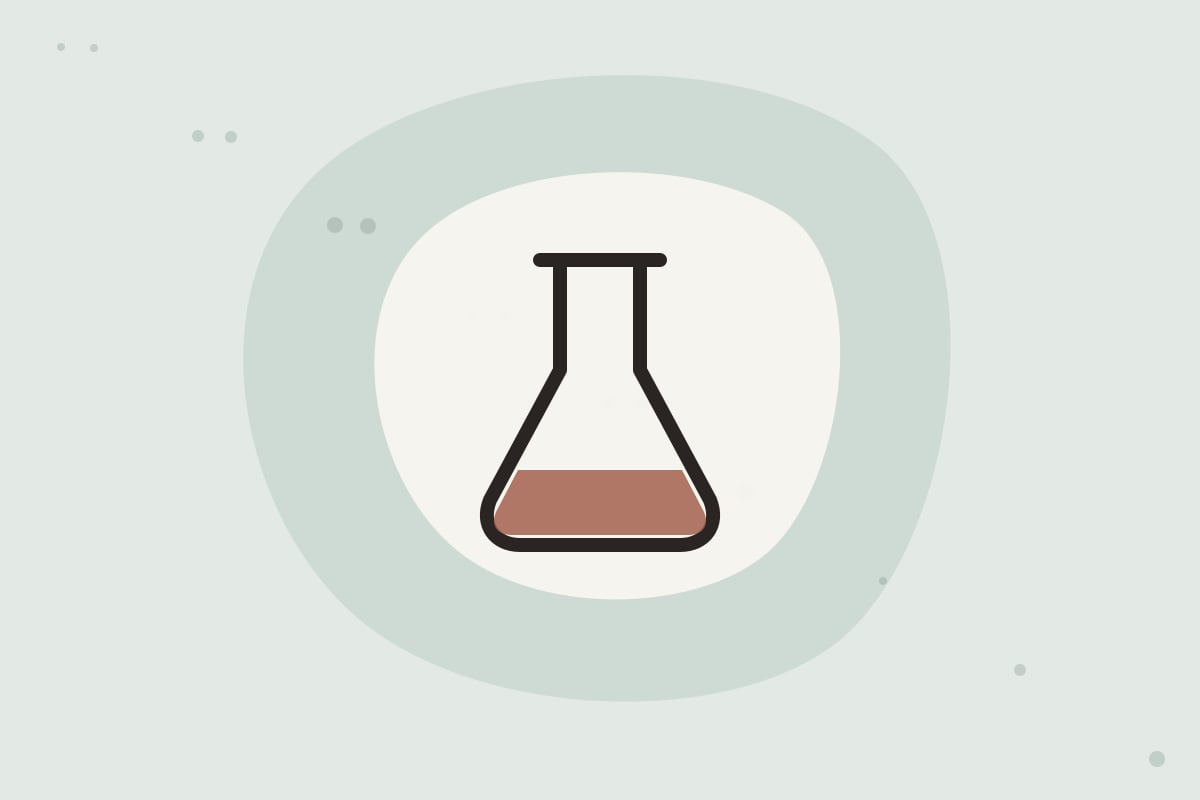
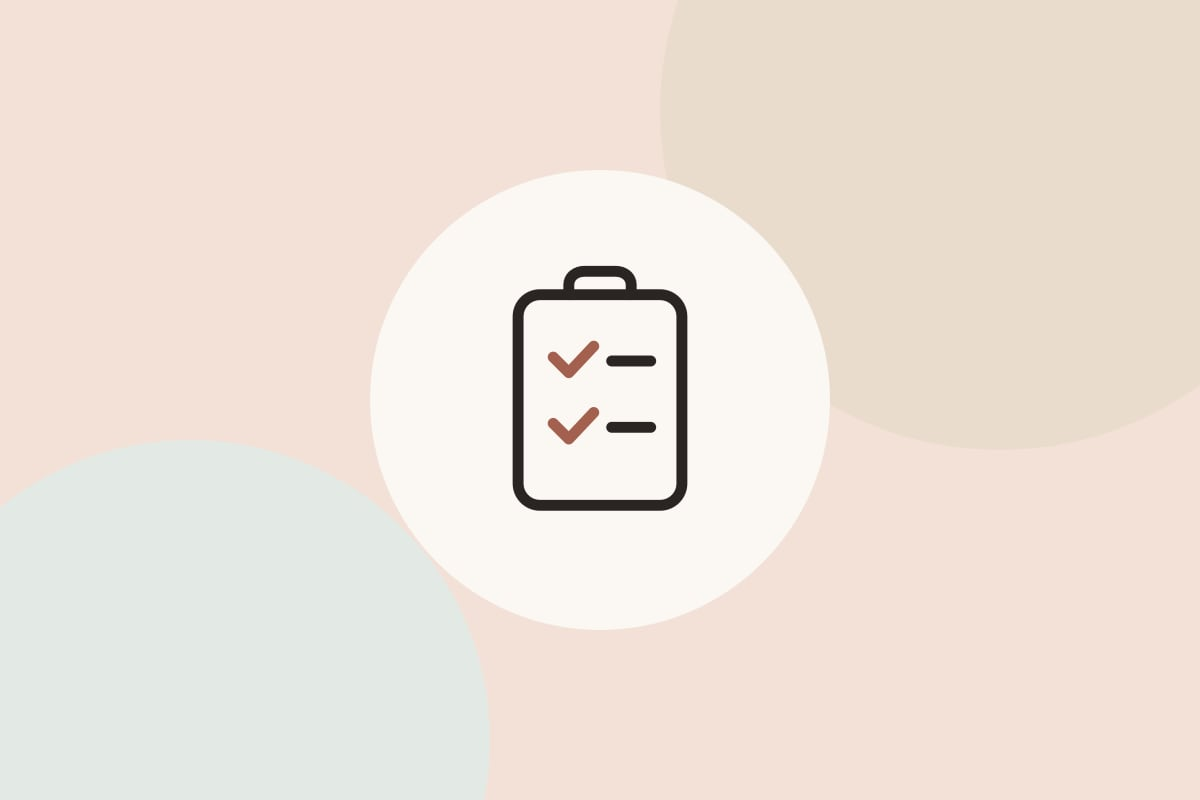
Ajustes de layout, conteúdo e nova consulta
- Título das telas internas de volta ao lado do botão de voltar (28 pt, reduz se não couber)
- Conteúdo: remove o artigo da parceria e ajusta Parceiro no plano de parto e nos testes rápidos
- Capas dos artigos com a mistura de cores da Orientação desta semana e margem em volta do ícone
- Ícone de exames: prancheta no lugar do frasco
- Hoje: saudação em 27 pt e faixa de semanas rolável que mostra o bebê da semana escolhida
- Nova consulta refeita: tipo em cartões, faixa de dias, horários em botões e resumo

diff --git a/app/(app)/nova-consulta.tsx b/app/(app)/nova-consulta.tsx
@@ -1,30 +1,53 @@
 import { useRouter } from 'expo-router';
-import { useState } from 'react';
-import { View } from 'react-native';
+import { useMemo, useState } from 'react';
+import { ScrollView, View } from 'react-native';
+import Svg, { Circle, Path, Rect } from 'react-native-svg';
 
 import { DateField } from '@/components/date-field';
-import { fromIso, todayIso, useStore } from '@/store';
-import { Chip, Field, Overline, PageHeader, PrimaryButton, Screen, Wrap } from '@/ui';
+import { capitalize, DAY, fmt, fromIso, iso, startOfToday, todayIso, useStore } from '@/store';
+import { colors } from '@/theme';
+import { Card, Field, Overline, PageHeader, Press, PrimaryButton, Sans, Screen, TextButton, Title } from '@/ui';
 
-const KINDS = ['Consulta pré-natal', 'Exame', 'Ultrassom', 'Vacina'];
+const stroke = (c: string) => ({ stroke: c, strokeWidth: 1.8, fill: 'none', strokeLinecap: 'round' as const, strokeLinejoin: 'round' as const });
+const KINDS: { id: string; label?: string; icon: (c: string) => React.ReactNode }[] = [
+  { id: 'Consulta pré-natal', label: 'Pré-natal', icon: (c) => <Svg width={22} height={22} viewBox="0 0 24 24"><Path d="M12 20s-7-4.4-7-10a4 4 0 0 1 7-2.6A4 4 0 0 1 19 10c0 5.6-7 10-7 10z" {...stroke(c)} /></Svg> },
+  { id: 'Exame', icon: (c) => <Svg width={22} height={22} viewBox="0 0 24 24"><Rect x="5" y="4" width="14" height="17" rx="3" {...stroke(c)} /><Path d="M9 4.5V3.5h6v1M8.5 11l1.5 1.5 3-3M8.5 16.5h7" {...stroke(c)} /></Svg> },
+  { id: 'Ultrassom', icon: (c) => <Svg width={22} height={22} viewBox="0 0 24 24"><Path d="M4 13c2-6 6-6 8 0s6 6 8 0" {...stroke(c)} /><Circle cx="12" cy="13" r="1.4" fill={c} /></Svg> },
+  { id: 'Vacina', icon: (c) => <Svg width={22} height={22} viewBox="0 0 24 24"><Path d="M12 3c2.6 1.6 4.7 2 6.5 2v6c0 4.4-3 7.4-6.5 9-3.5-1.6-6.5-4.6-6.5-9V5C7.3 5 9.4 4.6 12 3z" {...stroke(c)} /><Path d="M9.2 12l2 2 3.6-3.6" {...stroke(c)} /></Svg> },
+];
+const TIMES = Array.from({ length: 25 }, (_, i) => `${String(7 + Math.floor(i / 2)).padStart(2, '0')}:${i % 2 ? '30' : '00'}`);
 
 export default function NovaConsulta() {
-  const { save, load, flash } = useStore();
+  const { s, save, load, flash } = useStore();
   const router = useRouter();
-  const [title, setTitle] = useState(KINDS[0]);
+  const [title, setTitle] = useState(KINDS[0].id);
   const [day, setDay] = useState(todayIso());
+  const [otherDate, setOtherDate] = useState(false);
   const [time, setTime] = useState('');
+  const [otherTime, setOtherTime] = useState(false);
   const [who, setWho] = useState('');
   const [place, setPlace] = useState('');
+  const [busy, setBusy] = useState(false);
 
-  const submit = async () => {
+  // próximos 60 dias para a faixa de datas
+  const days = useMemo(() => Array.from({ length: 60 }, (_, i) => new Date(startOfToday().getTime() + i * DAY)), []);
+
+  const parsed = (() => {
     const match = time.trim().match(/^(\d{1,2})[:hH]?(\d{2})?$/);
     const h = match ? Number(match[1]) : NaN;
     const m = match?.[2] ? Number(match[2]) : 0;
-    if (!(h >= 0 && h < 24 && m < 60)) return flash('Informe o horário, por exemplo 14:30.');
+    return h >= 0 && h < 24 && m < 60 ? { h, m } : null;
+  })();
+  const when = parsed ? `${capitalize(fmt(fromIso(day), { weekday: 'long', day: 'numeric', month: 'long' }))}, às ${parsed.h}h${parsed.m ? String(parsed.m).padStart(2, '0') : ''}` : null;
+
+  const submit = async () => {
+    if (busy) return;
+    if (!parsed) return flash('Escolha o horário.');
     const start = fromIso(day);
-    start.setHours(h, m, 0, 0);
-    const created = await save('/appointments', 'POST', { startsAt: start.toISOString(), title, who, place });
+    start.setHours(parsed.h, parsed.m, 0, 0);
+    setBusy(true);
+    const created = await save('/appointments', 'POST', { startsAt: start.toISOString(), title, who: who.trim(), place: place.trim() });
+    setBusy(false);
     if (created) {
       await load();
       flash('Consulta salva');
@@ -34,20 +57,81 @@ export default function NovaConsulta() {
   };
 
   return (
-    <Screen gap={20}>
-      <PageHeader title="Nova consulta" fallback="/saude" />
+    <Screen gap={22}>
+      <PageHeader title="Nova consulta" sub="Fica no seu calendário de consultas" fallback="/saude" />
+
       <View style={{ gap: 10 }}>
         <Overline>O que é</Overline>
-        <Wrap>{KINDS.map((k) => <Chip key={k} label={k} on={title === k} onPress={() => setTitle(k)} />)}</Wrap>
+        <View style={{ flexDirection: 'row', flexWrap: 'wrap', gap: 8 }}>
+          {KINDS.map((k) => {
+            const on = title === k.id;
+            return (
+              <Press key={k.id} accessibilityLabel={k.id} accessibilityState={{ selected: on }} onPress={() => setTitle(k.id)} style={{ flexBasis: '48%', flexGrow: 1, flexDirection: 'row', alignItems: 'center', gap: 10, minHeight: 56, paddingHorizontal: 14, borderRadius: 18, backgroundColor: on ? colors.ink : colors.card, borderWidth: 1.5, borderColor: on ? colors.ink : colors.line }}>
+                {k.icon(on ? colors.bg : colors.terra)}
+                <Sans s={13} w={600} c={on ? colors.bg : colors.ink} style={{ flex: 1 }} numberOfLines={1}>{k.label ?? k.id}</Sans>
+              </Press>
+            );
+          })}
+        </View>
       </View>
-      <View style={{ gap: 8 }}>
-        <Overline>Dia</Overline>
-        <DateField value={day} onChange={setDay} />
+
+      <View style={{ gap: 10 }}>
+        <View style={{ flexDirection: 'row', justifyContent: 'space-between', alignItems: 'center' }}>
+          <Overline>Dia</Overline>
+          <TextButton label={otherDate ? 'Ver próximos dias' : 'Outra data'} s={12} w={600} c={colors.terra} onPress={() => setOtherDate(!otherDate)} />
+        </View>
+        {otherDate ? (
+          <DateField value={day} onChange={setDay} />
+        ) : (
+          <ScrollView horizontal showsHorizontalScrollIndicator={false} style={{ marginHorizontal: -20 }} contentContainerStyle={{ gap: 8, paddingHorizontal: 20 }}>
+            {days.map((d) => {
+              const id = iso(d);
+              const on = id === day;
+              return (
+                <Press key={id} accessibilityLabel={fmt(d, { weekday: 'long', day: 'numeric', month: 'long' })} accessibilityState={{ selected: on }} onPress={() => setDay(id)} style={{ width: 58, paddingVertical: 10, borderRadius: 18, alignItems: 'center', gap: 2, backgroundColor: on ? colors.ink : colors.card }}>
+                  <Sans s={11} w={600} c={on ? colors.onInkMid : colors.muted}>{fmt(d, { weekday: 'short' }).replace(/\./g, '').toUpperCase()}</Sans>
+                  <Title s={20} lh={1.15} c={on ? colors.bg : colors.ink}>{d.getDate()}</Title>
+                  <Sans s={11} c={on ? colors.onInkMid : colors.muted}>{fmt(d, { month: 'short' }).replace(/\./g, '')}</Sans>
+                </Press>
+              );
+            })}
+          </ScrollView>
+        )}
       </View>
-      <Field label="Horário" value={time} onChangeText={setTime} placeholder="14:30" keyboardType="numbers-and-punctuation" />
-      <Field label="Com quem" value={who} onChangeText={setWho} placeholder="Nome do profissional ou laboratório" />
-      <Field label="Onde" value={place} onChangeText={setPlace} placeholder="Clínica ou endereço" />
-      <PrimaryButton label="Salvar" onPress={submit} />
+
+      <View style={{ gap: 10 }}>
+        <View style={{ flexDirection: 'row', justifyContent: 'space-between', alignItems: 'center' }}>
+          <Overline>Horário</Overline>
+          <TextButton label={otherTime ? 'Ver horários' : 'Outro horário'} s={12} w={600} c={colors.terra} onPress={() => setOtherTime(!otherTime)} />
+        </View>
+        {otherTime ? (
+          <Field value={time} onChangeText={setTime} placeholder="Ex.: 14:15" keyboardType="numbers-and-punctuation" accessibilityLabel="Horário" />
+        ) : (
+          <ScrollView horizontal showsHorizontalScrollIndicator={false} style={{ marginHorizontal: -20 }} contentContainerStyle={{ gap: 8, paddingHorizontal: 20 }}>
+            {TIMES.map((t) => {
+              const on = t === time;
+              return (
+                <Press key={t} accessibilityLabel={`Às ${t}`} accessibilityState={{ selected: on }} onPress={() => setTime(t)} style={{ minWidth: 66, height: 44, borderRadius: 999, alignItems: 'center', justifyContent: 'center', paddingHorizontal: 12, backgroundColor: on ? colors.ink : colors.card, borderWidth: 1.5, borderColor: on ? colors.ink : colors.line }}>
+                  <Sans s={13} w={600} c={on ? colors.bg : colors.ink}>{t}</Sans>
+                </Press>
+              );
+            })}
+          </ScrollView>
+        )}
+      </View>
+
+      <Field label="Com quem" value={who} onChangeText={setWho} placeholder="Profissional, unidade ou laboratório" />
+      <Field label="Onde" value={place} onChangeText={setPlace} placeholder="Endereço ou nome do local (opcional)" />
+
+      <Card bg={colors.peach} style={{ padding: 18, gap: 4 }}>
+        <Sans s={11} w={600} c={colors.terra}>RESUMO</Sans>
+        <Title s={18} lh={1.3}>{title}</Title>
+        <Sans s={14} lh={1.45} c={colors.body}>{when ?? 'Escolha o dia e o horário'}</Sans>
+        {who.trim() ? <Sans s={13} c={colors.mutedStrong}>{who.trim()}</Sans> : null}
+        {s.notifyAppointments ? <Sans s={12} lh={1.45} c={colors.mutedStrong} style={{ marginTop: 6 }}>Você recebe um lembrete por e-mail um dia antes.</Sans> : null}
+      </Card>
+
+      <PrimaryButton label={busy ? 'Salvando...' : 'Salvar consulta'} onPress={submit} />
     </Screen>
   );
 }

diff --git a/app/(app)/hoje.tsx b/app/(app)/hoje.tsx
@@ -1,5 +1,6 @@
 import { useRouter } from 'expo-router';
-import { useWindowDimensions, View } from 'react-native';
+import { useCallback, useEffect, useRef, useState } from 'react';
+import { ScrollView, View, type ScrollViewInstance } from 'react-native';
 
 import { FEELINGS } from '@/content';
 import { babyFor, dailyMessage, useContent } from '@/content-provider';
@@ -8,21 +9,30 @@ import { BabyArt } from '@/components/baby-art';
 import { colors, fonts } from '@/theme';
 import { BookIcon, CalendarIcon, Card, Overline, Plus, Press, RowButton, Sans, Screen, Title } from '@/ui';
 
-function Ruler({ center, onPick }: { center: number; onPick: (n: number) => void }) {
-  const { width } = useWindowDimensions();
-  const reach = width < 380 ? 4 : 5;
-  const items = [];
-  for (let n = center - reach; n <= center + reach; n++) {
-    const d = Math.abs(n - center);
-    const ok = n >= 4 && n <= 41;
-    const size = d === 0 ? 44 : d === 1 ? 30 : 26;
-    items.push(
-      <Press key={n} disabled={!ok} hitSlop={{ top: 10, bottom: 10, left: 2, right: 2 }} accessibilityLabel={ok ? `Semana ${n}` : undefined} onPress={() => onPick(n)} style={{ width: size, height: size, borderRadius: size / 2, alignItems: 'center', justifyContent: 'center', backgroundColor: d === 0 ? colors.ink : 'transparent' }}>
-        <Sans s={d === 0 ? 16 : d === 1 ? 12 : 11} w={600} c={d === 0 ? colors.bg : d <= 2 ? colors.mutedStrong : '#B3A397'}>{ok ? n : ''}</Sans>
-      </Press>,
-    );
-  }
-  return <View style={{ flexDirection: 'row', alignItems: 'center', justifyContent: 'center', gap: 2 }}>{items}</View>;
+// Faixa rolável com todas as semanas (4 a 41). Abre centrada na semana atual; tocar escolhe a semana mostrada abaixo.
+const DOT = 44;
+const GAP = 6;
+function Ruler({ current, selected, onPick }: { current: number; selected: number; onPick: (n: number) => void }) {
+  const ref = useRef<ScrollViewInstance>(null);
+  const [w, setW] = useState(0);
+  const offsetFor = useCallback((n: number) => Math.max(0, (n - 4) * (DOT + GAP) - (w - DOT) / 2), [w]);
+  useEffect(() => {
+    if (w) ref.current?.scrollTo({ x: offsetFor(selected), animated: true });
+  }, [w, selected, offsetFor]);
+  const weeks = Array.from({ length: 38 }, (_, i) => i + 4);
+  return (
+    <ScrollView ref={ref} horizontal showsHorizontalScrollIndicator={false} onLayout={(e) => setW(e.nativeEvent.layout.width)} contentContainerStyle={{ paddingHorizontal: 20, gap: GAP, alignItems: 'center' }} snapToInterval={DOT + GAP} decelerationRate="fast">
+      {weeks.map((n) => {
+        const on = n === selected;
+        const isNow = n === current;
+        return (
+          <Press key={n} accessibilityLabel={`Semana ${n}${isNow ? ', semana atual' : ''}`} accessibilityState={{ selected: on }} onPress={() => onPick(n)} style={{ width: DOT, height: DOT, borderRadius: DOT / 2, alignItems: 'center', justifyContent: 'center', backgroundColor: on ? colors.ink : isNow ? colors.peach : 'transparent' }}>
+            <Sans s={on ? 16 : 13} w={600} c={on ? colors.bg : isNow ? colors.terra : n < current ? colors.mutedStrong : '#B3A397'}>{n}</Sans>
+          </Press>
+        );
+      })}
+    </ScrollView>
+  );
 }
 
 export default function Hoje() {
@@ -30,7 +40,9 @@ export default function Hoje() {
   const router = useRouter();
   const g = gestation(s);
   const content = useContent();
-  const baby = babyFor(g.week, content.weeks);
+  // semana mostrada no cartão do bebê: a atual, ou a escolhida na faixa de semanas
+  const [shown, setShown] = useState(g.week);
+  const baby = babyFor(shown, content.weeks);
   const next = nextAppointment(s);
   const todayEntry = s.diary[todayIso()];
   const mood = todayEntry ? FEELINGS[todayEntry.feel] : null;
@@ -45,7 +57,7 @@ export default function Hoje() {
     <Screen>
       <View style={{ flexDirection: 'row', alignItems: 'center', justifyContent: 'space-between', gap: 12 }}>
         <View style={{ flex: 1 }}>
-          <Title s={28} lh={1.15}>{h < 12 ? 'Bom dia' : h < 18 ? 'Boa tarde' : 'Boa noite'}, {name}</Title>
+          <Title s={27} lh={1.15}>{h < 12 ? 'Bom dia' : h < 18 ? 'Boa tarde' : 'Boa noite'}, {name}</Title>
           <Sans s={13} c={colors.muted} style={{ marginTop: 4 }}>Hoje é um novo dia da sua gravidez.</Sans>
         </View>
         <View style={{ flexDirection: 'row', alignItems: 'center', gap: 4, backgroundColor: colors.sand, borderRadius: 999, padding: 4 }}>
@@ -68,7 +80,7 @@ export default function Hoje() {
           <Sans s={15} c={colors.muted}>+ {g.day} dias</Sans>
         </View>
         <View style={{ marginHorizontal: -20, marginTop: 20, paddingTop: 14, paddingBottom: 12, backgroundColor: 'rgba(237,226,214,.45)' }}>
-          <Ruler center={g.week} onPick={openBaby} />
+          <Ruler current={g.week} selected={shown} onPick={setShown} />
         </View>
         <View style={{ flexDirection: 'row', justifyContent: 'space-between', marginTop: 8, gap: 8 }}>
           <Sans s={12} c={colors.muted} style={{ flexShrink: 1 }}>{g.pct}% da gestação</Sans>
@@ -78,11 +90,15 @@ export default function Hoje() {
 
       <View>
         <View style={{ flexDirection: 'row', justifyContent: 'space-between', alignItems: 'center', marginBottom: 12 }}>
-          <Title s={18}>Seu bebê nesta semana</Title>
-          <Press onPress={() => openBaby(g.week)} hitSlop={8} style={{ minHeight: 44, justifyContent: 'center' }}><Sans s={12} w={600} c={colors.terra}>Ver mais</Sans></Press>
+          <Title s={18}>{shown === g.week ? 'Seu bebê nesta semana' : `Seu bebê na semana ${shown}`}</Title>
+          {shown === g.week ? (
+            <Press onPress={() => openBaby(shown)} hitSlop={8} style={{ minHeight: 44, justifyContent: 'center' }}><Sans s={12} w={600} c={colors.terra}>Ver mais</Sans></Press>
+          ) : (
+            <Press onPress={() => setShown(g.week)} hitSlop={8} style={{ minHeight: 44, justifyContent: 'center' }}><Sans s={12} w={600} c={colors.terra}>Voltar para hoje</Sans></Press>
+          )}
         </View>
-        <Press onPress={() => openBaby(g.week)} style={{ backgroundColor: colors.card, borderRadius: 24, padding: 14, flexDirection: 'row', gap: 16, alignItems: 'center' }}>
-          <BabyArt week={g.week} style={{ width: 112, height: 112, borderRadius: 20 }} />
+        <Press onPress={() => openBaby(shown)} style={{ backgroundColor: colors.card, borderRadius: 24, padding: 14, flexDirection: 'row', gap: 16, alignItems: 'center' }}>
+          <BabyArt week={shown} style={{ width: 112, height: 112, borderRadius: 20 }} />
           <View style={{ flex: 1, minWidth: 0 }}>
             <Sans s={12} c={colors.muted}>Do tamanho de</Sans>
             <Title s={18} style={{ marginTop: 2 }}>{baby.size}</Title>

diff --git a/server/content/articles.ts b/server/content/articles.ts
@@ -35,7 +35,7 @@ export const ARTICLES: Article[] = [
   {
     key: 'testes-rapidos', title: 'Testes rápidos de sífilis, HIV e hepatites', category: 'Exames', minutes: 2, weekFrom: 4, weekTo: 41, sourceName: `${MS} · Combate à sífilis congênita`, sourceUrl: SIFILIS,
     summary: 'São gratuitos e fazem parte do pré-natal, na primeira consulta e no terceiro trimestre.',
-    body: 'Os testes rápidos são feitos com uma gota de sangue e ficam prontos em poucos minutos.\n\nNo pré-natal, eles são oferecidos na primeira consulta, repetidos no terceiro trimestre e também no momento do parto.\n\nIdentificar a sífilis e outras infecções cedo permite o tratamento ainda na gestação e protege o bebê. Quando o resultado é reagente, a equipe orienta os próximos passos e o tratamento da parceria também.',
+    body: 'Os testes rápidos são feitos com uma gota de sangue e ficam prontos em poucos minutos.\n\nNo pré-natal, eles são oferecidos na primeira consulta, repetidos no terceiro trimestre e também no momento do parto.\n\nIdentificar a sífilis e outras infecções cedo permite o tratamento ainda na gestação e protege o bebê. Quando o resultado é reagente, a equipe orienta os próximos passos e o tratamento do parceiro também.',
   },
   {
     key: 'sinais-de-alerta', title: 'Sinais de alerta: quando procurar a maternidade', category: 'Cuidados', minutes: 2, weekFrom: 4, weekTo: 41, sourceName: `${MS} · Caderneta Brasileira da Gestante`, sourceUrl: CADERNETA,
@@ -46,11 +46,6 @@ export const ARTICLES: Article[] = [
     key: 'conhecer-a-maternidade', title: 'Direito de conhecer a maternidade e ao acompanhante', category: 'Direitos', minutes: 2, weekFrom: 20, weekTo: 41, sourceName: `${MS} · Pré-natal`, sourceUrl: PRENATAL,
     summary: 'Durante o pré-natal, você pode conhecer a maternidade onde será atendida.',
     body: 'Durante o pré-natal, é direito da gestante conhecer a maternidade de referência, onde será atendida em intercorrências e no parto.\n\nA visita ajuda a planejar o caminho, saber como funciona a entrada e tirar dúvidas com antecedência.\n\nA gestante também tem direito a um acompanhante de sua escolha durante o trabalho de parto, o parto e o pós-parto imediato.',
-  },
-  {
-    key: 'parceria-no-pre-natal', title: 'A parceria também faz pré-natal', category: 'Pré-natal', minutes: 2, weekFrom: 4, weekTo: 41, sourceName: `${MS} · Pré-natal`, sourceUrl: PRENATAL,
-    summary: 'A parceria pode acompanhar consultas e também tem direito a exames.',
-    body: 'A participação da parceria fortalece o cuidado durante a gestação.\n\nEla pode acompanhar consultas, grupos e atividades na unidade de saúde, e também tem direito a exames, como os testes de sífilis, HIV e hepatites.\n\nConverse com sua equipe sobre como incluir a parceria no acompanhamento.',
   },
   {
     key: 'saude-bucal', title: 'Saúde bucal na gravidez', category: 'Cuidados', minutes: 2, weekFrom: 4, weekTo: 41, sourceName: `${MS} · Pré-natal`, sourceUrl: PRENATAL,
@@ -99,6 +94,6 @@ const COVERS = 'https://bornly-api.wt-pedagogia.workers.dev/img/artigos';
 for (const a of ARTICLES) {
   // Tempo de leitura pelo tamanho do texto (cerca de 200 palavras por minuto).
   a.minutes = Math.max(1, Math.ceil(a.body.split(/\s+/).length / 200));
-  a.image ??= `${COVERS}/${a.key}.jpg`;
+  a.image ??= `${COVERS}/${a.key}.jpg?v=2`;
   a.imageCredit ??= 'Ilustração: Bornly';
 }

diff --git a/src/ui.tsx b/src/ui.tsx
@@ -159,17 +159,15 @@ export function CircleButton({ children, onPress, bg = colors.card, label, size 
 
 export function PageHeader({ title, sub, fallback, right }: { title: string; sub?: string; fallback: '/hoje' | '/saude' | '/preparar' | '/aprender'; right?: ReactNode }) {
   const back = useGoBack(fallback);
-  // Título grande embaixo do botão de voltar: mesmo tamanho dos títulos das abas (28).
+  // Título ao lado do botão de voltar, no mesmo tamanho dos títulos das abas (28). Se não couber, reduz até 22.
   return (
-    <View style={{ gap: 14 }}>
-      <View style={{ flexDirection: 'row', alignItems: 'center', justifyContent: 'space-between', minHeight: 44 }}>
-        <BackButton onPress={back} />
-        {right}
+    <View style={{ flexDirection: 'row', alignItems: 'center', gap: 14 }}>
+      <BackButton onPress={back} />
+      <View style={{ flex: 1, minWidth: 0 }}>
+        <Title s={28} lh={1.15} numberOfLines={1} adjustsFontSizeToFit minimumFontScale={0.78}>{title}</Title>
+        {sub ? <Sans s={13} lh={1.35} c={colors.muted} style={{ marginTop: 2 }}>{sub}</Sans> : null}
       </View>
-      <View>
-        <Title s={28} lh={1.15}>{title}</Title>
-        {sub ? <Sans s={13} lh={1.35} c={colors.muted} style={{ marginTop: 4 }}>{sub}</Sans> : null}
-      </View>
+      {right}
     </View>
   );
 }

diff --git a/src/components/baby-art.tsx b/src/components/baby-art.tsx
@@ -36,8 +36,9 @@ export function BabyArt({ week, style }: { week: number; style?: StyleProp<ViewS
   return (
     <View accessible accessibilityRole="image" accessibilityLabel={`Ilustração do bebê na semana ${week}`} style={[{ backgroundColor: colors.peach, overflow: 'hidden' }, style]}>
       <Svg width="100%" height="100%" viewBox="0 0 120 120">
-        <Circle cx="96" cy="18" r="30" fill={colors.photo} />
-        <Circle cx="62" cy="64" r="44" fill={colors.card} />
+        <Circle cx="100" cy="12" r="34" fill={colors.photo} />
+        <Circle cx="14" cy="112" r="30" fill={colors.sage} />
+        <Circle cx="60" cy="62" r="42" fill={colors.card} />
         {art}
       </Svg>
     </View>

diff --git a/server/content/misc.ts b/server/content/misc.ts
@@ -35,7 +35,7 @@ export const CHECKLISTS = [
 ];
 
 export const BIRTH_PLAN = [
-  { key: 'acompanhante', topic: 'Acompanhante', options: ['Parceiro(a)', 'Mãe', 'Doula', 'Outra pessoa'] },
+  { key: 'acompanhante', topic: 'Acompanhante', options: ['Parceiro', 'Mãe', 'Doula', 'Outra pessoa'] },
   { key: 'ambiente', topic: 'Ambiente', options: ['Luz baixa', 'Música', 'Silêncio', 'Liberdade para me movimentar'] },
   { key: 'analgesia', topic: 'Analgesia', options: ['Métodos não farmacológicos primeiro', 'Analgesia se eu pedir', 'Decidir na hora'] },
   { key: 'pele-a-pele', topic: 'Contato pele a pele', options: ['Imediato, se possível', 'Após avaliação do bebê'] },
